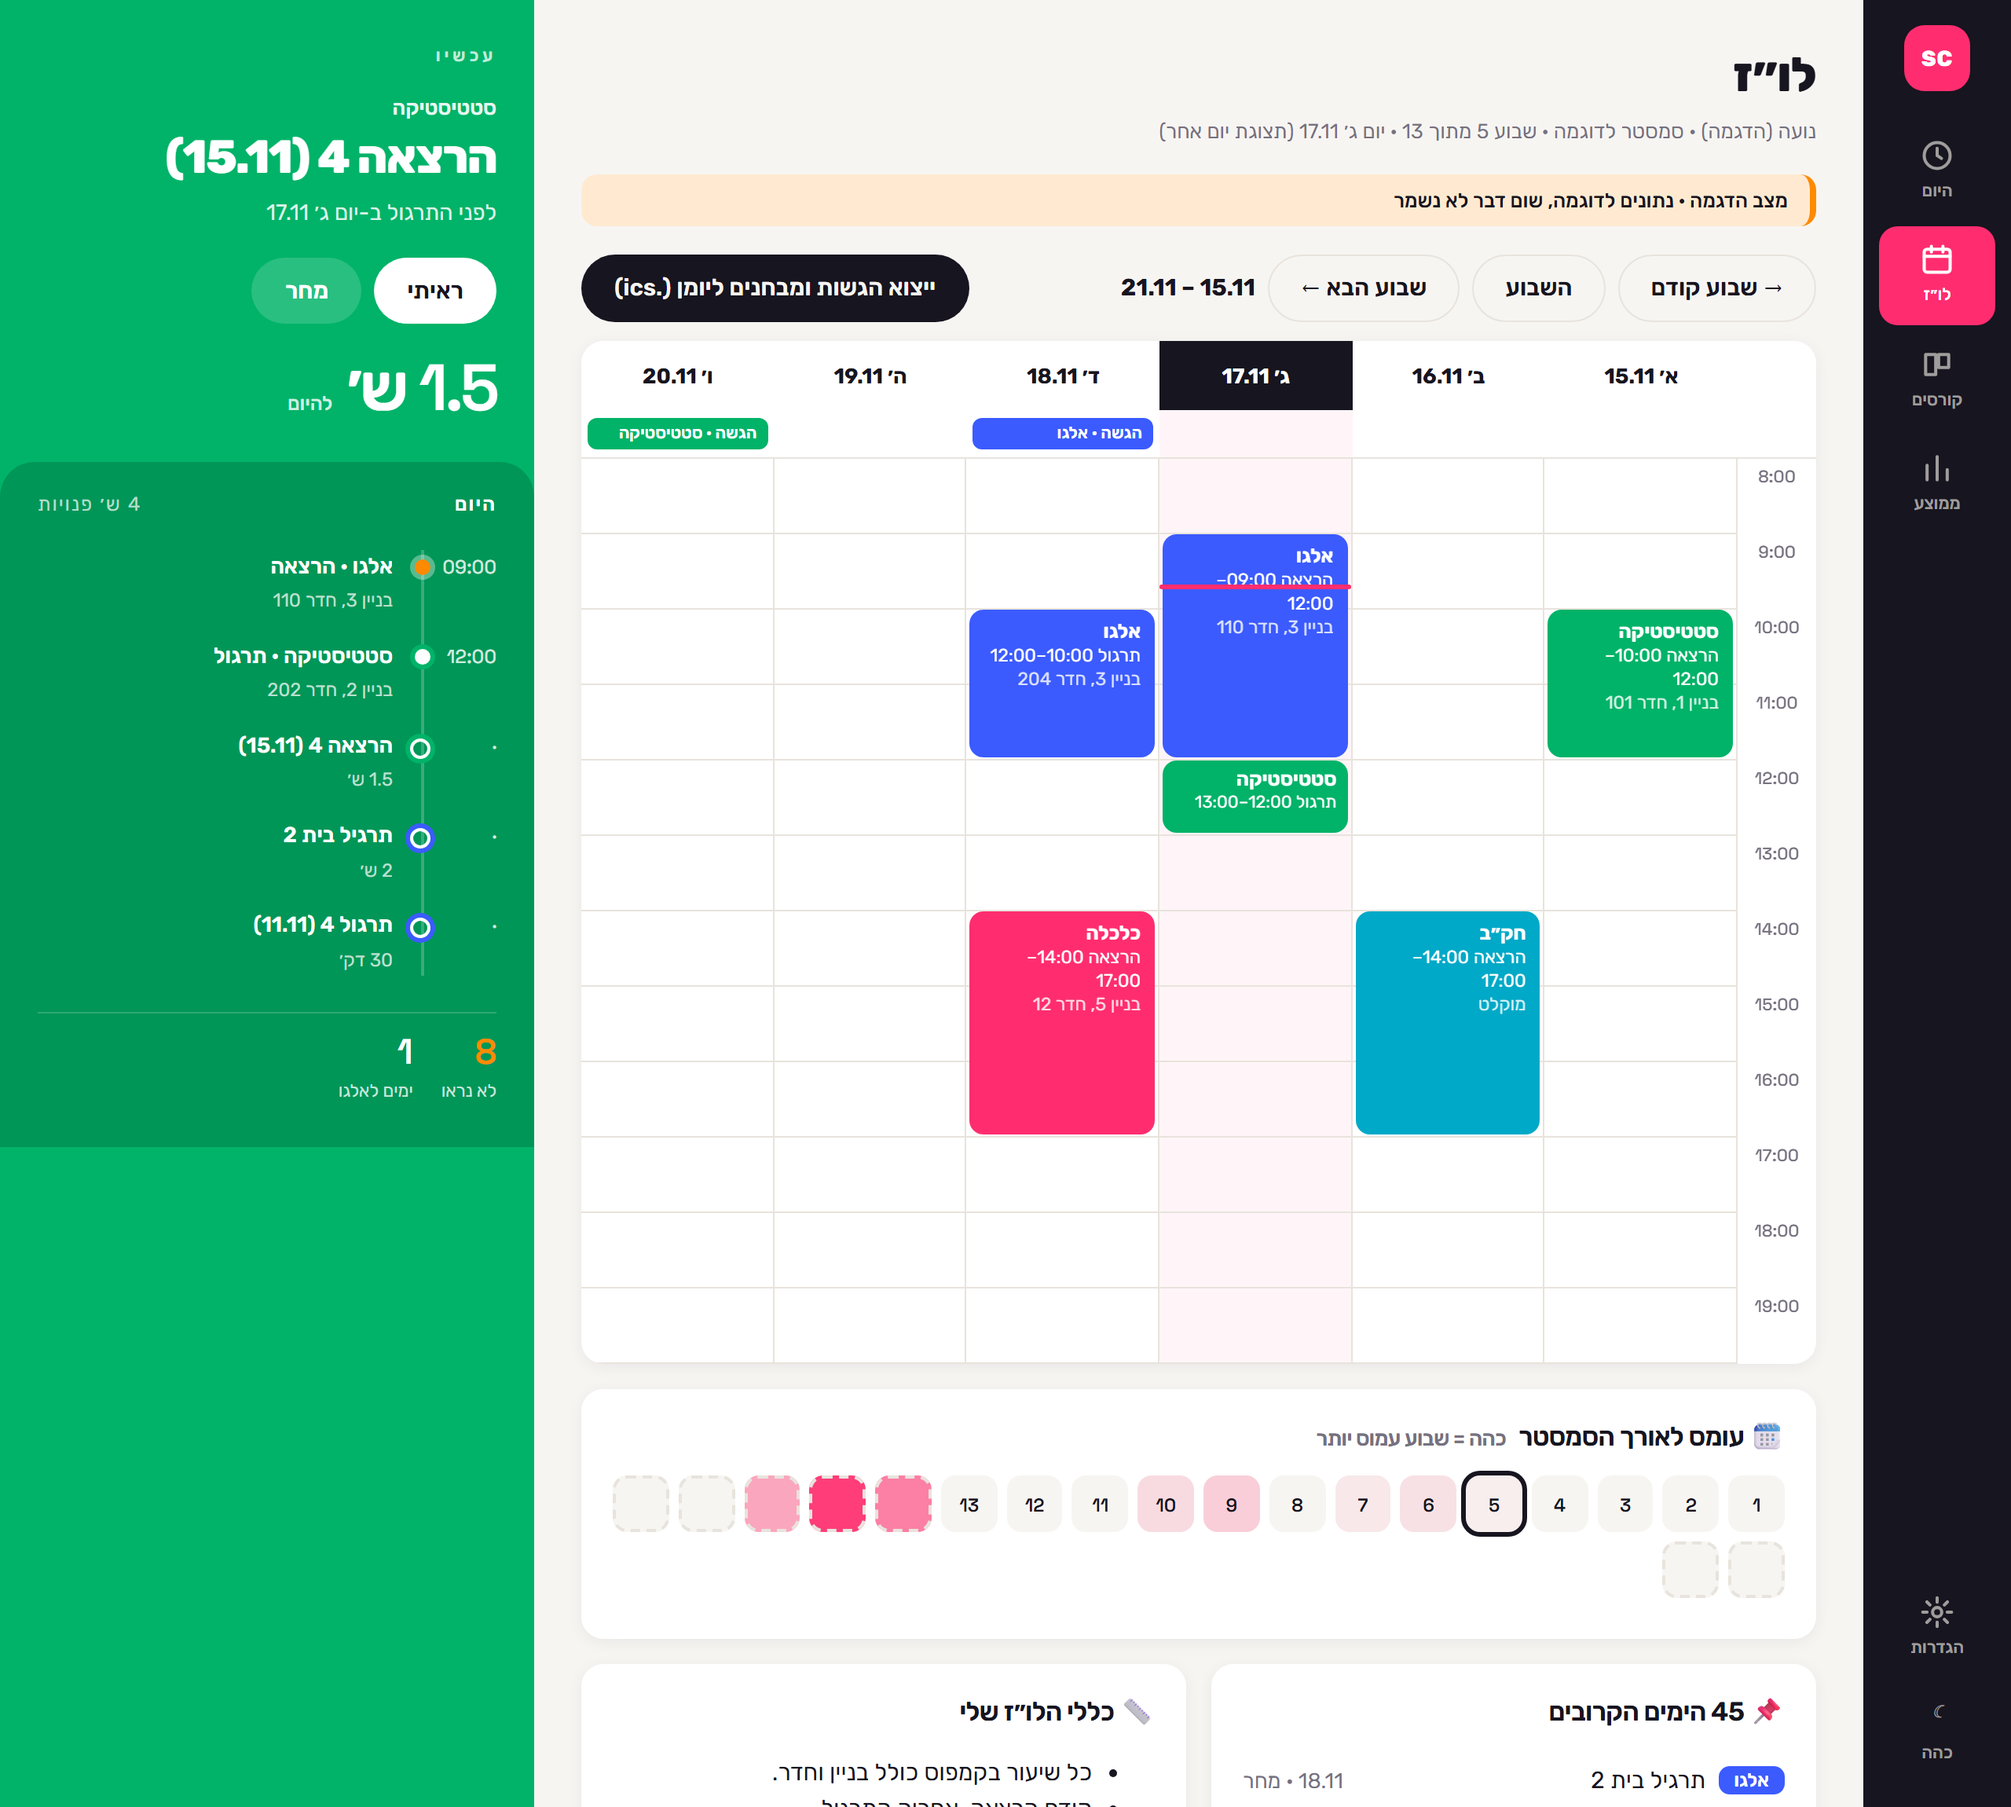
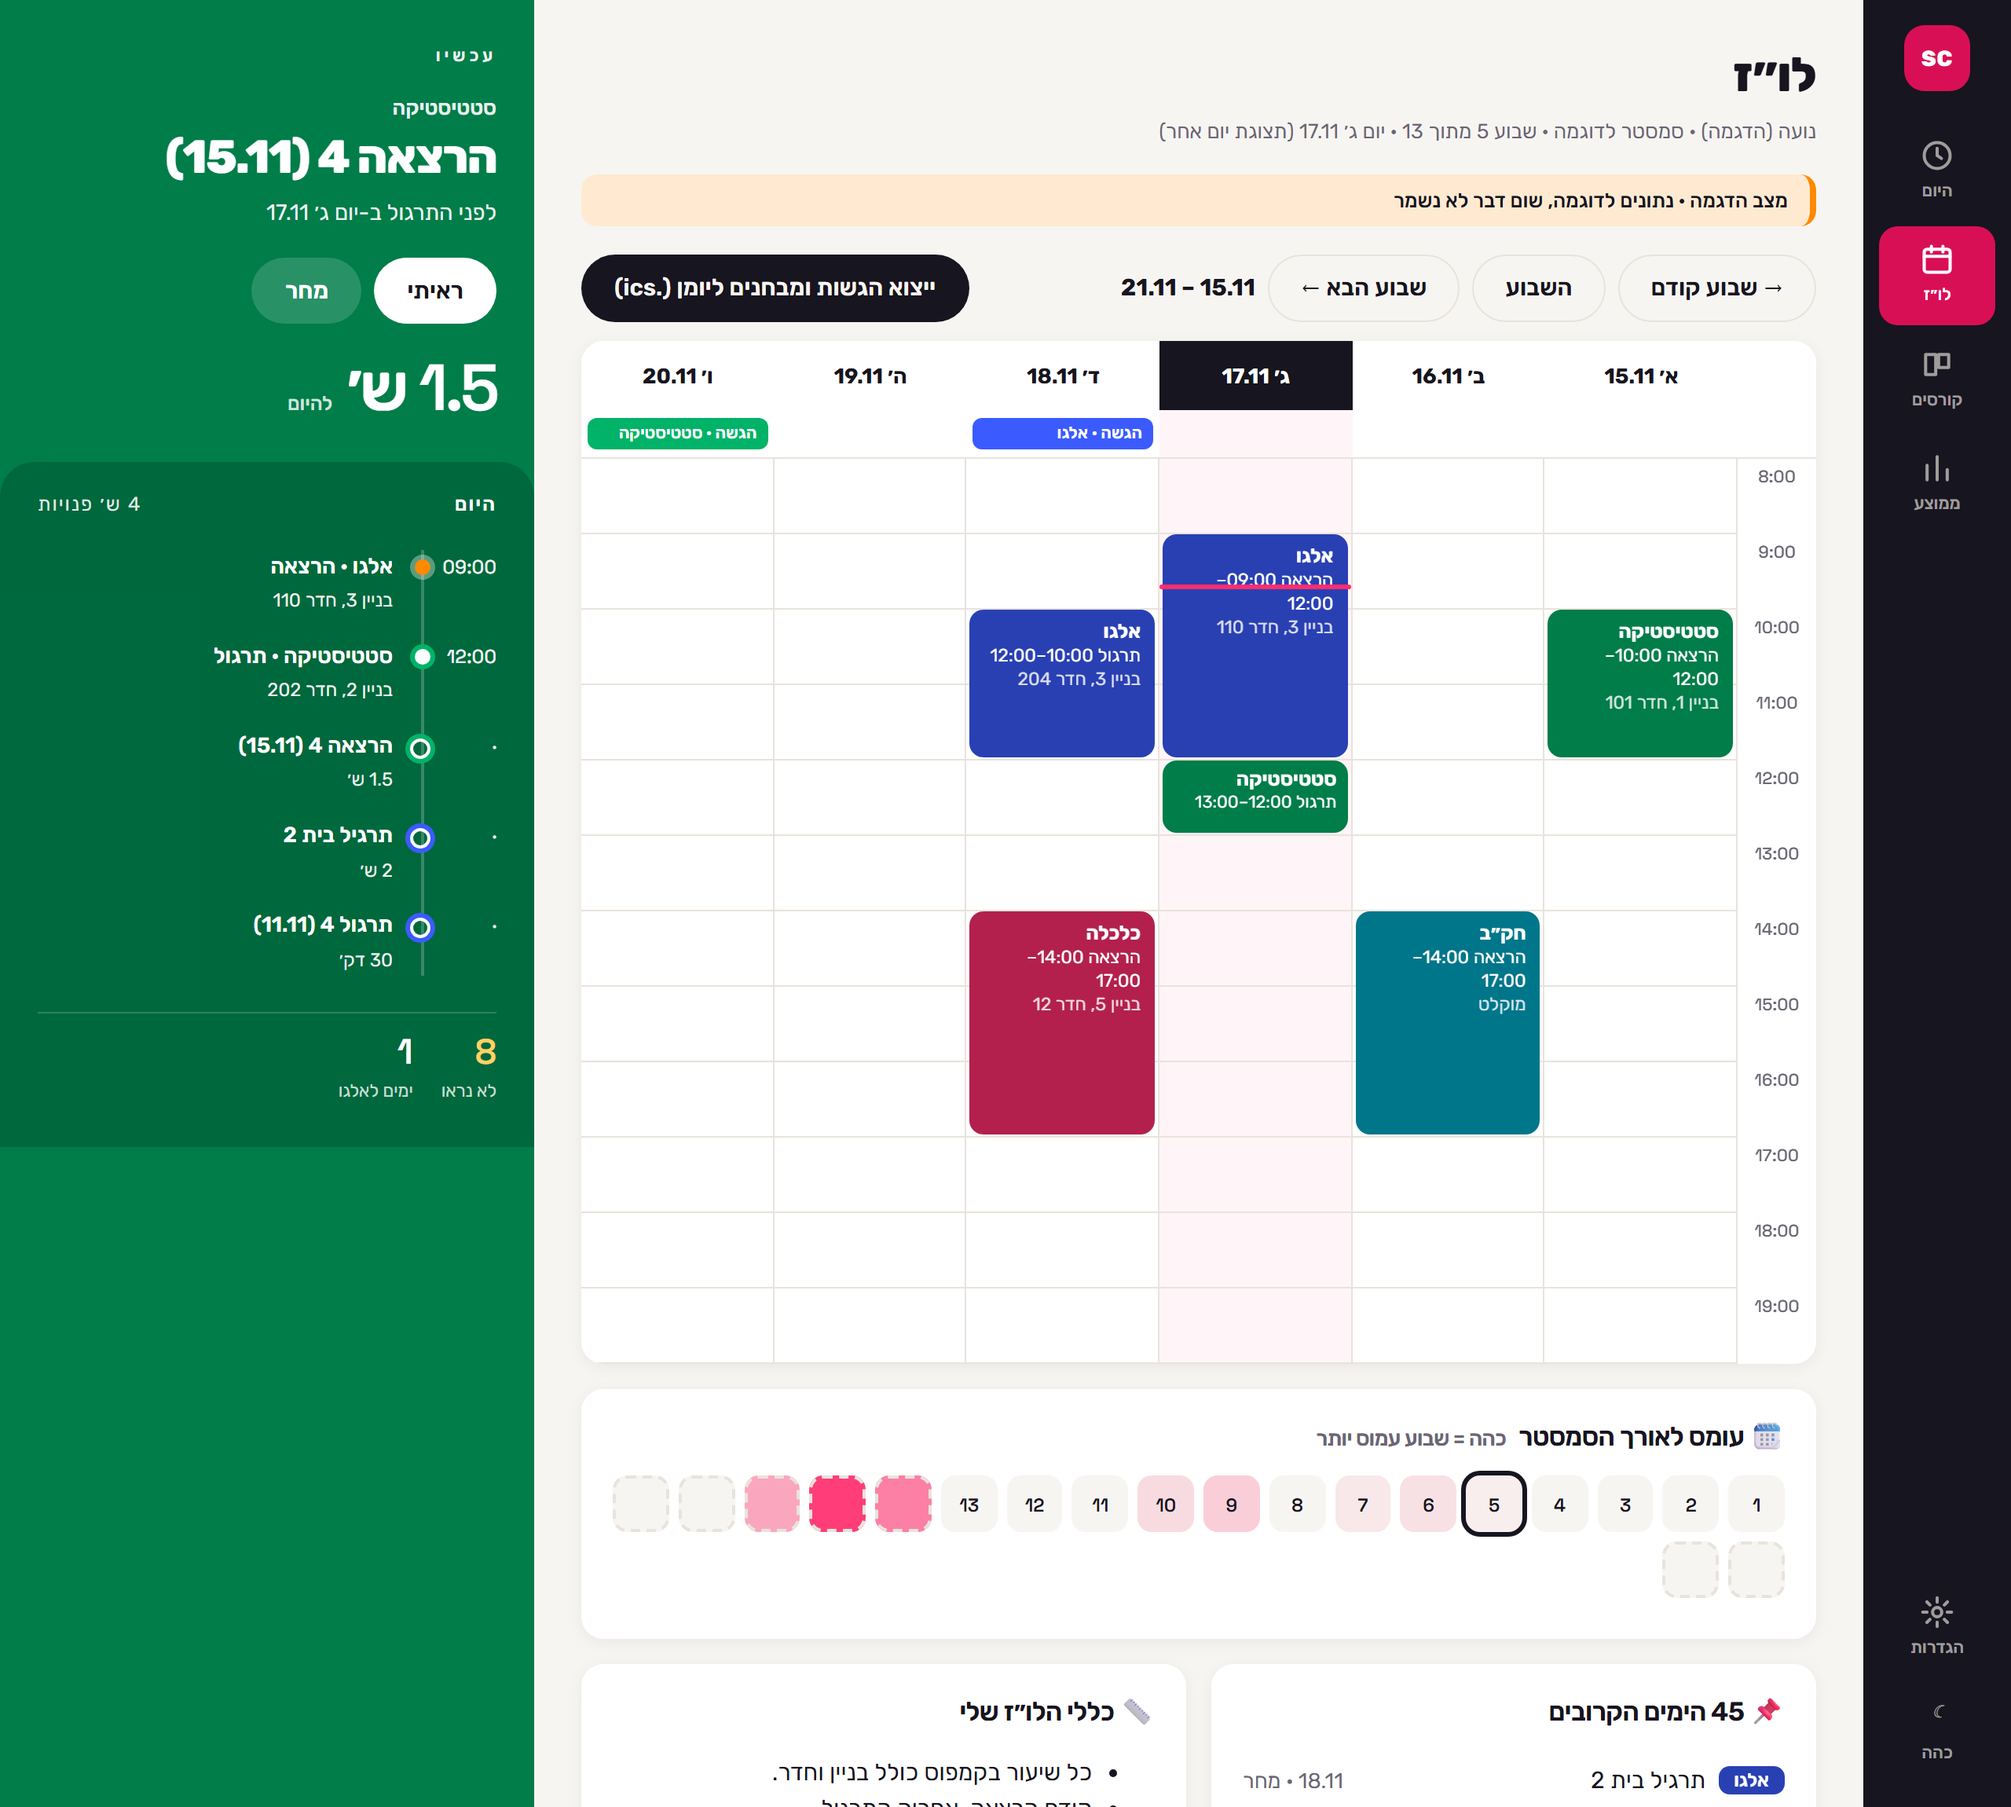
fix(ui): AA contrast, focus rings, touch targets and compact mobile focus panel
Adds docs/UX_REVIEW.he.md with findings by severity. Fixes the unreadable
'seen' button in dark mode, deepens course hues behind white text, adds
:focus-visible, enlarges hit areas, announces the toast, honours
reduced motion and shrinks the focus panel outside the today tab on mobile.

diff --git a/css/style.css b/css/style.css
@@ -347,3 +347,45 @@ code.uid { display: block; direction: ltr; text-align: left; padding: 8px 12px; 
 /* an hour-long slot has room for the course and the time, not the room number */
 .ev.short { font-size: .68rem; padding: 4px 7px; }
 .ev.short .muted { display: none; }
+
+/* ---------- UX review fixes (docs/UX_REVIEW.he.md) ---------- */
+/* AA contrast: text sits on a slightly deepened course hue; the hue itself stays the same family */
+.chip, .ev, .pin { background: color-mix(in srgb, var(--c, var(--accent)) 70%, #000); }
+.badge.week { background: #007a91; }
+.focus { background: color-mix(in srgb, var(--c, var(--accent)) 70%, #000); }
+.focus-nums b.hot { color: #ffd166; }
+.focus .muted, .focus-head .muted { color: rgba(255, 255, 255, .88); }
+.focus-eyebrow, .focus-why, .ribbon .rb-time, .ribbon i { opacity: .92; }
+:root { --accent-text: #d90f55; --accent-strong: #d90f55; }
+[data-theme=dark], [data-look] { --accent-text: var(--accent); --accent-strong: var(--accent); }
+a, button.link { color: var(--accent-text); }
+.rail button.active, .logo { background: var(--accent-strong); }
+[data-theme=dark] .rail button.active, [data-theme=dark] .logo { color: #17151f; }
+:root:not([data-theme=dark]) { --muted: #6b6674; }
+
+/* keyboard focus is always visible */
+:focus-visible { outline: 3px solid var(--accent-text); outline-offset: 2px; border-radius: 6px; }
+.focus :focus-visible, .rail :focus-visible { outline-color: #fff; }
+
+/* touch targets: grow the hit area without changing the layout */
+button.chip, button.link.sm { position: relative; }
+button.chip::after, button.link.sm::after { content: ""; position: absolute; inset: -13px -4px; }
+.rail button { min-width: 44px; }
+@media (pointer: coarse) {
+  button.btn.sm { min-height: 44px; }
+  .seen-item { min-height: 44px; }
+  input[type=checkbox] { width: 24px; height: 24px; }
+}
+
+/* mobile: the focus panel is the whole answer on "today" only; elsewhere it shrinks so the page title is visible */
+@media (max-width: 1080px) {
+  body:not([data-tab=today]) .focus-rest { display: none; }
+  body:not([data-tab=today]) .focus-now { padding-bottom: 14px; }
+  body:not([data-tab=today]) .focus-dur { display: none; }
+}
+@media (prefers-reduced-motion: reduce) {
+  * { transition: none !important; animation: none !important; }
+}
+/* dark theme: --ink is light, so the white button in the focus panel needs its own dark text */
+.focus .btn { color: #17151f; }
+.focus .btn.ghost { color: #fff; }

diff --git a/js/app.js b/js/app.js
@@ -719,6 +719,7 @@
   function render() {
     if (!VIEWS[state.tab]) state.tab = "today";
     applyTheme();
+    document.body.dataset.tab = state.tab;
     const unread = remote.inbox.filter((m) => !m.read).length;
     document.getElementById("tabs").innerHTML = Object.entries(VIEWS).filter(([, v]) => !v.hidden)
       .map(([k, v]) => `<button data-tab="${k}" class="${k === state.tab || VIEWS[state.tab].parent === k ? "active" : ""}" title="${v.title}">

diff --git a/index.html b/index.html
@@ -48,6 +48,8 @@
     <section class="focus" id="focus" aria-label="מה עכשיו"></section>
   </div>
 
+  <div id="toast" role="status" aria-live="polite"></div>
+
   <!-- סדר הטעינה: נתוני הדגמה → הנתונים שלך (אם קיים) → הגדרות ענן (אם קיים) → Supabase → לוגיקה → אפליקציה -->
   <script src="data/sample-semester.js"></script>
   <script src="data/my-semester.js"></script>

diff --git a/sw.js b/sw.js
@@ -5,7 +5,7 @@
  * is never a reload behind. Images: cache first, since they do not change under the same name.
  * Supabase requests are never cached – a stale deadline is worse than an offline message.
  */
-const VERSION = "v12";
+const VERSION = "v13";
 const SHELL = "shell-" + VERSION;
 const RUNTIME = "runtime-" + VERSION;
 

diff --git a/docs/UX_REVIEW.he.md b/docs/UX_REVIEW.he.md
@@ -1,0 +1,32 @@
+# סקירת UX/UI
+
+נבדק בדמו (`?demo=1&today=2026-11-17&now=09:40`): כל הלשוניות, מחשב (1440px) ומובייל (375px), בהיר וכהה, והסגנון "גן". הבדיקות המחושבות רצו עם `javascript_tool` (ניגודיות, גודל יעדי מגע, גלישה אופקית).
+
+## מה עובד טוב
+- תוך 5 שניות ברור מה המשימה: פאנל הפוקוס צבוע בצבע הקורס, עם כותרת גדולה וכפתור "ראיתי".
+- אין גלילה אופקית במובייל (375px) בשום לשונית. הלו״ז השבועי גולל פנימית בכוונה.
+- אין כפתור או שדה בלי שם נגיש.
+- RTL ויישור תקינים, והמספרים והשעות בגופן נפרד ולא מתערבבים עם העברית.
+
+## ממצאים
+
+### חשוב
+1. **כפתור "ראיתי" בפאנל הפוקוס כמעט בלתי נראה במצב כהה.** טקסט בהיר על רקע לבן (`.focus .btn` ב-`css/style.css`). **תוקן.**
+2. **ניגודיות מתחת ל-AA בכל טקסט לבן על גווני הקורס.** ירוק 2.75, תכלת 2.80, ורוד 3.59 (נדרש 4.5). מופיע בצ'יפים, באירועי הלו״ז, ב"הגשה" ובפאנל הפוקוס כולו. **תוקן:** הרקע של הטקסט מעורבב 30% עם שחור (`color-mix`), כך שהגוון נשאר באותה משפחה והיחס עולה ל-5.2 ומעלה.
+3. **במובייל פאנל הפוקוס תופס מסך שלם בכל לשונית**, ותוכן הלשונית (כותרת, קורסים) מתחיל מתחת לקיפול. **תוקן:** מחוץ ללשונית "היום" נשאר רק הכותרת והכפתורים; הלוז היומי והמספרים מוסתרים (`body[data-tab]`).
+4. **אין סימון פוקוס מקלדת** על כפתורים וקישורים. **תוקן:** `:focus-visible` בכל האפליקציה.
+
+### קטן
+5. קישורים וכפתורי `link` בוורוד `#ff2d6f` על רקע בהיר: 3.29. **תוקן:** `--accent-text`. (הסגנונות האחרים לא שונו.)
+6. טקסט מושתק (`--muted`) ו"הנתונים נשמרים בדפדפן" בניגודיות 4.35. **תוקן** (`#6b6674`).
+7. יעדי מגע קטנים: צ'יפים של קורס (18px), `⏭` (13x24), כפתורי `sm` (33px), כפתורי הרייל (42px רוחב). **תוקן:** אזור לחיצה מורחב ב-`::after`, `min-width`, ובמסכי מגע `min-height: 44px`.
+8. הודעת ה-toast ("יפה! ✓") לא הוכרזה לקורא מסך. **תוקן:** `role="status"` ב-`index.html`.
+9. אנימציות לא כיבדו `prefers-reduced-motion`. **תוקן.**
+10. המספר האדום-כתום ("לא נראו") על הפאנל הירוק: 1.16. **תוקן** (`#ffd166`).
+
+### מחכה להחלטה (לא תוקן)
+11. **קורס בצהוב (`#ffc400`) לא יכול לשאת טקסט לבן** (3.2 גם אחרי ההכהיה). המלצה: לבחור גוון כהה יותר בנתונים, או להוסיף שדה `ink` לקורס.
+12. **תיבות סימון בדף הקורסים והמשימות הן 18-24px.** כדי להגיע ל-44px צריך לעטוף את השורה כולה כ-label לחיץ. זה שינוי רינדור ב-`js/app.js` שסשן היומן נוגע בו.
+13. **במובייל, בלשונית "היום", הרצועה בפאנל חוזרת על כרטיס "אחר כך היום".** המלצה: להסתיר את הרצועה במובייל או את הכרטיס, ולהשאיר רק אחד.
+14. הרצועה מציגה "·" כשעה של משימה, והמספרים כתובים "1 ימים לאלגו". המלצה: "ללא שעה" ו"יום אחד" (ב-`renderFocus`, באותו קובץ).
+15. הבאנר "מצב הדגמה" כתום בהיר ובולט; המלצה לצמצם לשורה קטנה אחרי שהמשתמשת הבינה.
